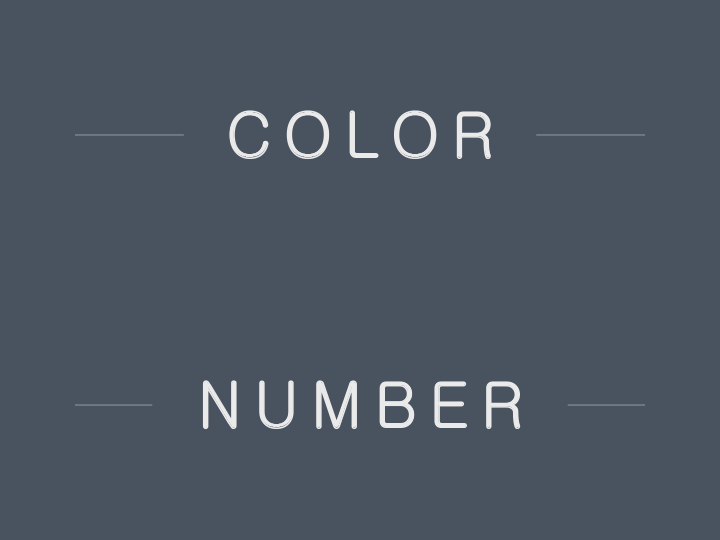
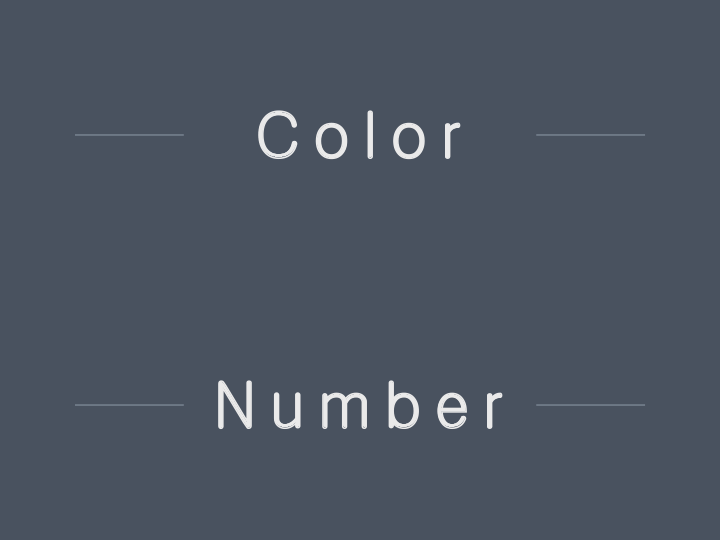
139

diff --git a/index.html b/index.html
@@ -46,13 +46,14 @@
                         <ul>
                             <li>8<span>R1  W3  Y7 ...</span></li>
                             <li>9<span>W1  B3  G9 ...</span></li>
+                            <li>10<span>R1  R10  </span></li>
                         </ul>
                     </li>
                     <div id="contentsTitle4"></div>
                     <li>
                         <ul>
 
-                            <li>10<span>R1  R10  </span></li>
+                            
                             <li>11<span>R1  W3  Y7 ...</span></li>
                             <li>12<span>R1  G10  Y8</span></li>
                         </ul>
@@ -131,7 +132,19 @@
                 </div>
             </div>
             <div id="settingPage">
-                this is setting page.
+                <div id="titleSettings"></div>
+                <ul>
+                    <li>Language</li>
+                    <li>Animation Speed</li>
+                    <li>Save State</li>
+                </ul>
+                <div id="titleAbout"></div>
+                <ul>
+                    <li>version</li>
+                    <li>Last Update</li>
+                    <li>Website</li>
+                    <li>Feedback</li>
+                </ul>
             </div>
         </div>
         <div id="menuFooter">
@@ -152,7 +165,7 @@
                     <li id="imgBox3"></li>
                 </ul>
                 <canvas id="mainAnimation"></canvas>
-                
+
             </div>
             
             <div id="mainHeader">
@@ -173,7 +186,7 @@
         </div>
     </div>
     <!-- <div id="mask"></div> -->
-    
+
 </div>
 
 

diff --git a/stylesheets/stylesheet.css b/stylesheets/stylesheet.css
@@ -321,7 +321,7 @@ body, html{
 /****contents****/
 
 #contentsPage ul div{
-    height: 90px;
+    height: 68px;
     width: 100%;
     background-image: url(../images/menuTitle.png);
     background-size: 240px 620px;
@@ -386,7 +386,7 @@ body, html{
 
 #titleColor,#titleNumber{
     width: 100%;
-    height: 90px;
+    height: 68px;
     background-image: url(../images/searchTitle.png);
     background-size: 240px 180px;
 }
@@ -482,6 +482,23 @@ body, html{
 #settingPage{
     /*background-color: orange;*/
 }
+
+#titleSettings,#titleAbout{
+    width: 100%;
+    height: 68px;
+    background-image: url(../images/settingsTitle.png);
+    background-size: 240px 180px;
+}
+
+#titleSettings{
+    background-position: 0 0;
+}
+
+#titleAbout{
+    background-position: 0 -90px;
+}
+
+
 
 #menuFooter{
     height: 55px;
